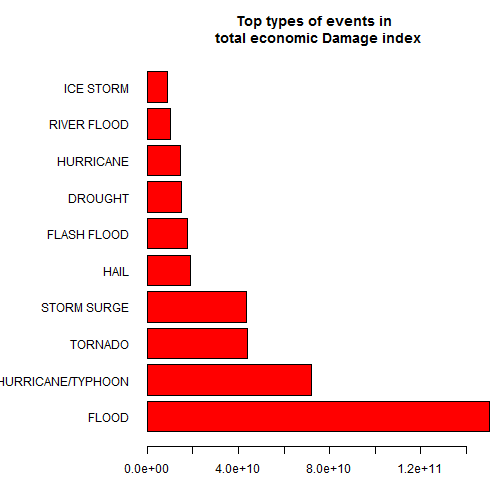
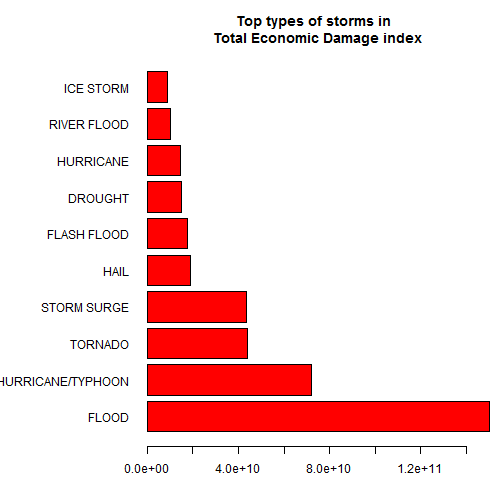
Synopsis written. Check for typos and formats.

Changed region(s): [[0.4167, 0.0298, 0.8333, 0.0893]]

diff --git a/report.html b/report.html
@@ -183,24 +183,23 @@ hljs.initHighlightingOnLoad();
 
 <h1></h1>
 
-<h3>by <em>Thomas Antonakis</em> on Sun Sep 14 13:33:54 2014</h3>
+<h3>by <em>Thomas Antonakis</em> on Sun Sep 14 13:43:42 2014</h3>
 
 <h2>Effects of Storm events on population health and economic damage</h2>
 
 <h2>Synopsis</h2>
 
-<p>Immediately after the title, there should be a synopsis which describes and summarizes your analysis in at most 10 complete sentences.</p>
+<p>A data of storm events fronm 1950  up to 2011 was provided and we were asked to analyse which types of storms have the greatest effect in terms of population health and in terms of economic conseueces. For the analysis on the health of the  population, the records of fatalities and injuries were used, while for the economic consequences, data from property and crop damage estimates were assumed. The storm types with the greatest effect on population health are TORNADO, EXCESSIVE HEAT, LIGHTNING, TSTM WIND, FLASH FLOOD, and FLOOD. The storm types with the worst economic consequences are </p>
 
 <h2>Data Processing</h2>
-
-<p>There should be a section titled Data Processing which describes (in words and code) how the data were loaded into R and processed for analysis. In particular, your analysis must start from the raw CSV file containing the data. You cannot do any preprocessing outside the document. If preprocessing is time-consuming you may consider using the cache = TRUE option for certain code chunks.</p>
 
 <p>This project involves exploring the U.S. National Oceanic and Atmospheric Administration&#39;s (NOAA) storm database. THis database tracks characteristics of major storms and weather events in the United States, including when and where they occur, as well as estimates of any fatalities, injuries, property and crop damage. </p>
 
 <p>The events in the database start in the year 1950 and end in November 2011. In the earlier years of the database there are generally fewer events recorded, most likely due to lack of good records. More recent years should be considered more complete. </p>
 
-<p>The data for the  analysis came in form of a comma-separated-value file compressed via the bzip2 algorithm to reduce its size.<br/>
-Let&#39;s first of all download the file.  </p>
+<p>The data for the  analysis came in form of a comma-separated-value file compressed via the bzip2 algorithm to reduce its size.  </p>
+
+<p>Let&#39;s first of all download the file.  </p>
 
 <pre><code class="r"># Create folder to put download the file
 if(!file.exists(&quot;./data&quot;)){dir.create(&quot;./data&quot;)}
@@ -647,11 +646,13 @@ b
 bplot &lt;- b$damage
 names(bplot) &lt;- b$evtype
 par(mar = c(4, 10, 4, 1))
-barplot(bplot, col= 2, main=&quot;Top types of events in \n total economic Damage index&quot;, 
+barplot(bplot, col= 2, main=&quot;Top types of storms in \n Total Economic Damage index&quot;, 
         horiz=TRUE, las=1)
 </code></pre>
 
[2 lines of base64/hex data omitted]
+
+<p>The storm events with the worst economic consequences are FLOOD, HURRICANE/TYPHOON, TORNADO, STORM SURGE, HAIL, FLASH FLOOD</p>
 
 </body>
 

diff --git a/report.md b/report.md
@@ -10,24 +10,23 @@ output:
 # Reproducible Research Assignment 2
 ========================================================
 
-### by *Thomas Antonakis* on Sun Sep 14 13:33:54 2014
+### by *Thomas Antonakis* on Sun Sep 14 13:43:42 2014
 
 ## Effects of Storm events on population health and economic damage
 
 
 ## Synopsis
 
-Immediately after the title, there should be a synopsis which describes and summarizes your analysis in at most 10 complete sentences.
+A data of storm events fronm 1950  up to 2011 was provided and we were asked to analyse which types of storms have the greatest effect in terms of population health and in terms of economic conseueces. For the analysis on the health of the  population, the records of fatalities and injuries were used, while for the economic consequences, data from property and crop damage estimates were assumed. The storm types with the greatest effect on population health are TORNADO, EXCESSIVE HEAT, LIGHTNING, TSTM WIND, FLASH FLOOD, and FLOOD. The storm types with the worst economic consequences are 
 
 ## Data Processing
-
-There should be a section titled Data Processing which describes (in words and code) how the data were loaded into R and processed for analysis. In particular, your analysis must start from the raw CSV file containing the data. You cannot do any preprocessing outside the document. If preprocessing is time-consuming you may consider using the cache = TRUE option for certain code chunks.
 
 This project involves exploring the U.S. National Oceanic and Atmospheric Administration's (NOAA) storm database. THis database tracks characteristics of major storms and weather events in the United States, including when and where they occur, as well as estimates of any fatalities, injuries, property and crop damage. 
 
 The events in the database start in the year 1950 and end in November 2011. In the earlier years of the database there are generally fewer events recorded, most likely due to lack of good records. More recent years should be considered more complete. 
 
 The data for the  analysis came in form of a comma-separated-value file compressed via the bzip2 algorithm to reduce its size.  
+
 Let's first of all download the file.  
 
 
@@ -541,9 +540,10 @@ A plot will make us visualize which are the top types of storms in terms of econ
 bplot <- b$damage
 names(bplot) <- b$evtype
 par(mar = c(4, 10, 4, 1))
-barplot(bplot, col= 2, main="Top types of events in \n total economic Damage index", 
+barplot(bplot, col= 2, main="Top types of storms in \n Total Economic Damage index", 
         horiz=TRUE, las=1)
 ```
 
 ![plot of chunk plot economic](figure/plot economic.png) 
 
+The storm events with the worst economic consequences are FLOOD, HURRICANE/TYPHOON, TORNADO, STORM SURGE, HAIL, FLASH FLOOD
